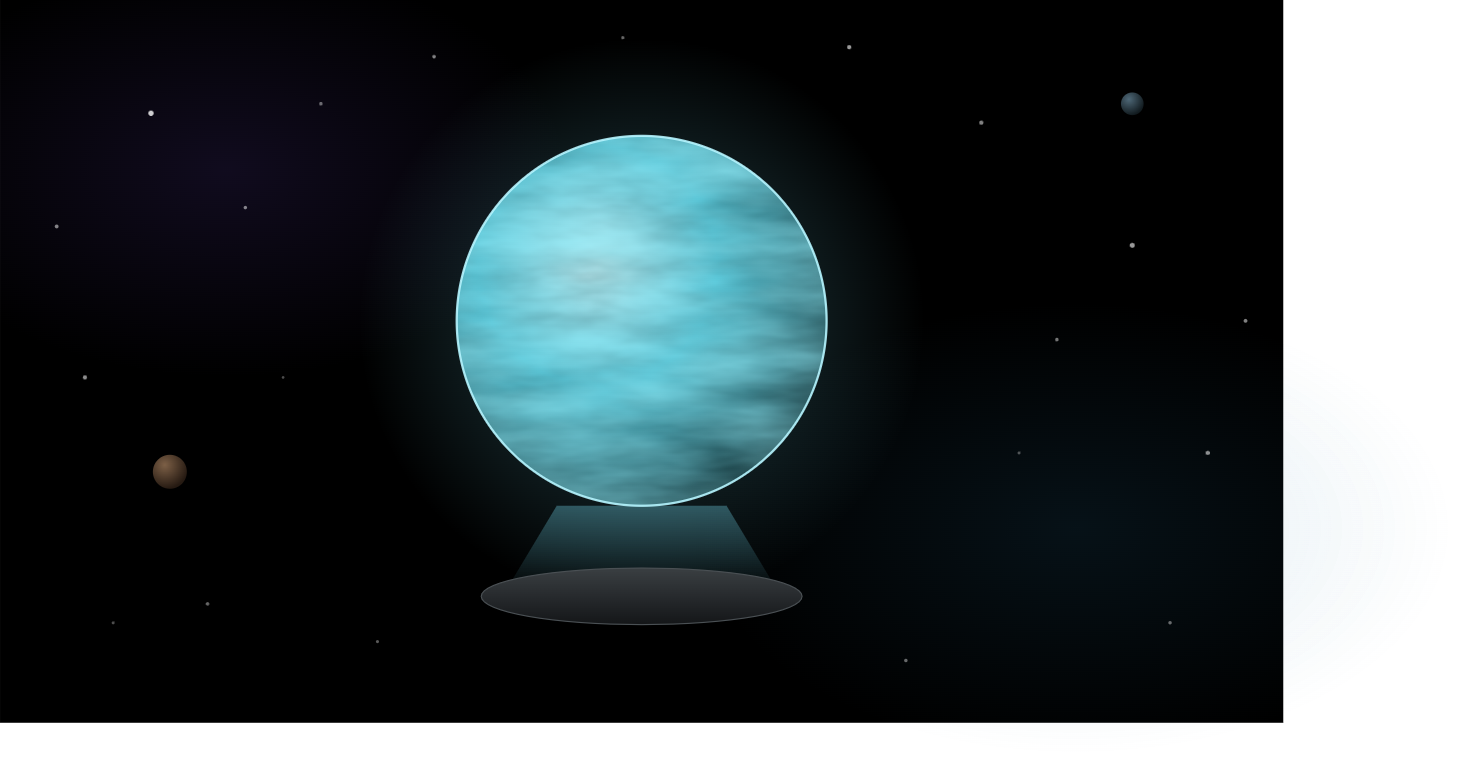
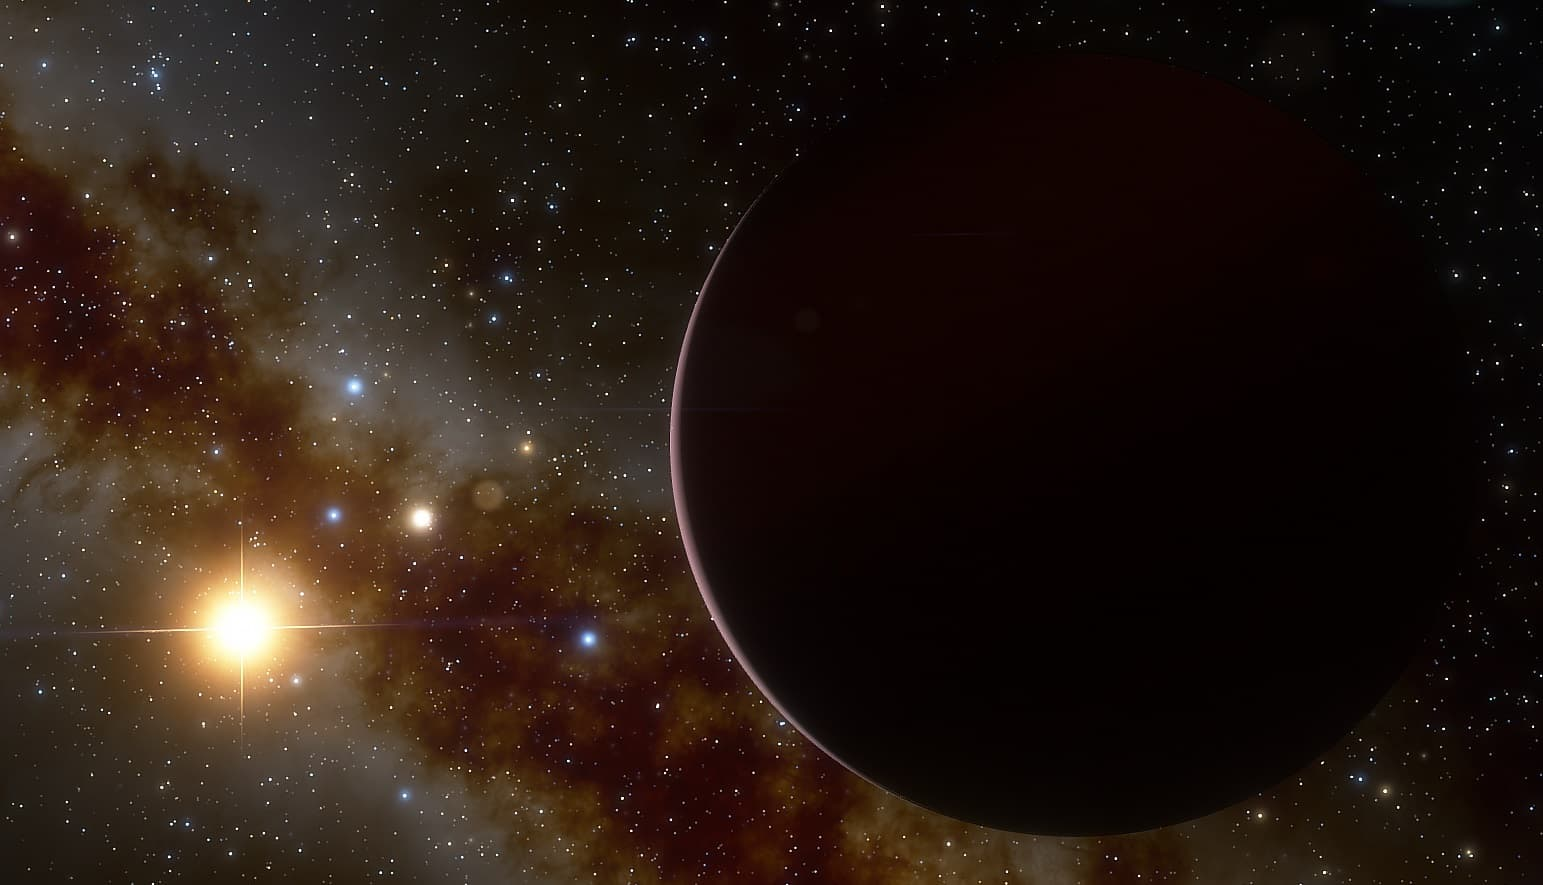
working on details page

diff --git a/planet.css b/planet.css
@@ -5,14 +5,7 @@ h1 {
     justify-content: center;
     padding: 20px, 50px;
     margin: 20px;
-}
-
-h2 {
-    display: flex;
-    flex-direction: row;
-    justify-content: center;
-    padding: 20px, 50px;
-    margin: 20px;
+    padding-bottom: 30px;
 }
 
 .blank_space {
@@ -24,20 +17,25 @@ h2 {
 }
 
 body {
-    background-image: url('planet.png');
+    background-image: url('planet2.png');
     background-repeat: no-repeat;
-    background-size: 100%;
-    background-position-y: top;
-    background-position-x: center;
+    background-size: 52%;
+    background-position: center;
     color: white;
-    background-color: rebeccapurple;
+    background-color: black;
+    min-height: 97vh;
 }
 
-body, p {
+h3 {
+    display: block;
+    width: 300px;
     color: white;
-    padding: 0px;
+    padding: 20px;
+    left: 20px;
     position: relative;
-    margin: 0px;
+    background-color: #111;
+    border: 3px solid rgb(51, 76, 103);
+    border-radius: 5px;
 }
 
 #Back {
@@ -45,7 +43,7 @@ body, p {
     top: 40px;
     left: 20px;
     cursor: pointer;
-    background-color: rgb(9, 116, 116);
+    background-color: rgb(51, 76, 103);
     font-size: 1.2rem;
     display: flex;
     flex-direction: row;
@@ -58,5 +56,5 @@ body, p {
 }
 
 #Back:hover {
-    background-color: rgb(14, 140, 140);
+    background-color: rgb(121, 142, 174);
 }

diff --git a/planet.html b/planet.html
@@ -6,19 +6,13 @@
 </head>
 <body>
   <span id = "Back" onclick = "window.location.href = 'discover.html'">← Back</span>
-  <div class = "blank_space"></div>
-        <h1>EXOPOSSIBILITIES</h1>
-        <h2>A PLATFORM FOR EXPLORERS</h2>
-        <div class = "blank_space"></div>
-        <div class = "blank_space">
-    </div>
-  <!-- <div id="planet-info">
-    <h1 id="planet-name"></h1>
-    <p>Radius: <span id="planet-radius"></span> R⊕</p>
-    <p>Mass: <span id="planet-mass"></span> M⊕</p>
-    <p>Equilibrium Temperature: <span id="planet-temp"></span> K</p>
-    <p>Distance from Earth: <span id="planet-dist"></span> pc</p>
-  </div> -->
+  <h1 id = "planet-name"></h1>
+  <h3>Radius: <span id="planet-radius"></span> Earth Radii<br><br>
+  Mass: <span id="planet-mass"></span> Earth Masses<br><br>
+  Equilibrium Temperature: <span id="planet-temp"></span> Kelvin<br><br>
+  Distance from Earth: <span id="planet-dist"></span> parsecs</h3>
+  <h3>It would take <span id="planet-time"></span> years to get there if traveling at the speed of light.</h3>
+  <h3>Possibly habitable? <span id="water"></span></h3>
   <script src="planet.js"></script>
 </body>
 </html>

diff --git a/discover.css b/discover.css
@@ -3,7 +3,7 @@
     top: 40px;
     left: 20px;
     cursor: pointer;
-    background-color: rgb(9, 116, 116);
+    background-color: rgb(51, 76, 103);
     font-size: 1.2rem;
     display: flex;
     flex-direction: row;
@@ -16,7 +16,7 @@
 }
 
 #Home:hover {
-    background-color: rgb(14, 140, 140);
+    background-color: rgb(121, 142, 174);
 }
 
 body {
@@ -41,10 +41,14 @@ body, p {
 
 .planet_card {
     background-color: #111;
-    border: 2px solid rgb(9, 116, 116);
+    border: 2px solid rgb(51, 76, 103);
     border-radius: 16px;
     padding: 20px;
     cursor: pointer;
+}
+
+.planet_card:hover {
+   border-color: rgb(121, 142, 174)
 }
 
 #search-input {
@@ -54,7 +58,7 @@ body, p {
     padding: 12px 20px;
     font-size: 1rem;
     border-radius: 30px;
-    border: 2px solid rgb(9, 116, 116);
+    border: 2px solid rgb(51, 76, 103);
     background-color: #111;
     color: white;
 }
@@ -84,14 +88,14 @@ body, p {
 }
 
 .filter-group input[type="range"] {
-  accent-color: rgb(9, 116, 116);
+  accent-color: rgb(51, 76, 103);
   cursor: pointer;
 }
 
 .filter-group select {
   background-color: #111;
   color: rgb(255, 255, 255);
-  border: 2px solid rgb(9, 116, 116);
+  border: 2px solid rgb(51, 76, 103);
   border-radius: 8px;
   padding: 6px 10px;
   font-size: 0.9rem;

diff --git a/planet.js b/planet.js
@@ -12,10 +12,15 @@ async function loadPlanet() {
   }
 
   document.getElementById("planet-name").textContent = planet.pl_name;
-  document.getElementById("planet-radius").textContent = planet.pl_rade ?? "Unknown";
-  document.getElementById("planet-mass").textContent = planet.pl_bmasse ?? "Unknown";
-  document.getElementById("planet-temp").textContent = planet.pl_eqt ?? "Unknown";
-  document.getElementById("planet-dist").textContent = planet.sy_dist ?? "Unknown";
+  document.getElementById("planet-radius").textContent = planet.pl_rade ? parseFloat(planet.pl_rade).toFixed(2) : "Unknown";
+  document.getElementById("planet-mass").textContent = planet.pl_bmasse ? parseFloat(planet.pl_bmasse).toFixed(2) : "Unknown";
+  document.getElementById("planet-temp").textContent = planet.pl_eqt ? parseFloat(planet.pl_eqt).toFixed(2) : "Unknown";
+  document.getElementById("planet-dist").textContent = planet.sy_dist ? parseFloat(planet.sy_dist).toFixed(2) : "Unknown";
+  document.getElementById("planet-time").textContent = planet.sy_dist ? parseFloat(planet.sy_dist*3.26156).toFixed(2) : "Unknown";
+
+  if(planet.pl_eqt < 250) {
+    document.getElementById("water").textContent = "No, too cold.";
+  }
 }
 
 loadPlanet();

diff --git a/index.css b/index.css
@@ -42,7 +42,7 @@ body, p {
 
 #Discover {
     cursor: pointer;
-    background-color: rgb(9, 116, 116);
+    background-color: rgb(51, 76, 103);
     font-size: 1.2rem;
     display: flex;
     flex-direction: row;
@@ -56,7 +56,7 @@ body, p {
 }
 
 #Discover:hover {
-    background-color: rgb(14, 140, 140);
+    background-color: rgb(121, 142, 174);
 }
 
 

diff --git a/README.md b/README.md
@@ -2,7 +2,7 @@
 My Stardance project 2026
 
 **Summary of this Website:**
-I created a website and named it Exopossibilities, basically blending the word possibilites into the word Exoplanets. On my website, the user can navigate to the Discover page, where they see a list of every exoplanet in NASA's archive(over 5,000). They can then explore info on each planet, search for a specific planet, filter to see planets that fit specific criteria, i.e. Each box containing the planet's name and info is able to be clicked on, which sends the user to a page focused solely on that planet. Each planet's page shows a graphic, the planet's info, how long it would take to get to the planet, how living on the planet would affect the human body, and what would be needed to live on that planet, if possible at all. 
+I created a website and named it Exopossibilities, basically blending the word possibilites into the word Exoplanets. On my website, the user can navigate to the Discover page, where they see a list of every exoplanet in NASA's archive(over 5,000). They can then explore info on each planet, search for a specific planet, filter to see planets that fit specific criteria, i.e. Each box containing the planet's name and info is able to be clicked on, which sends the user to a page focused solely on that planet. Each planet's page displays the planet's info, how long it would take to get to the planet, how living on the planet would affect the human body, and what would be needed to live on that planet, if possible at all. 
 Thanks for reading and have fun exploring my website!
 
 **Demo Link:**